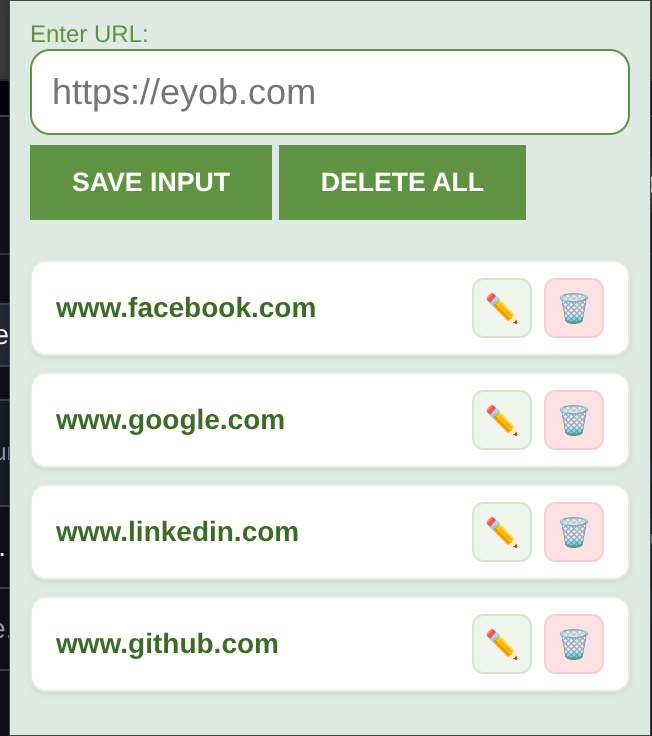
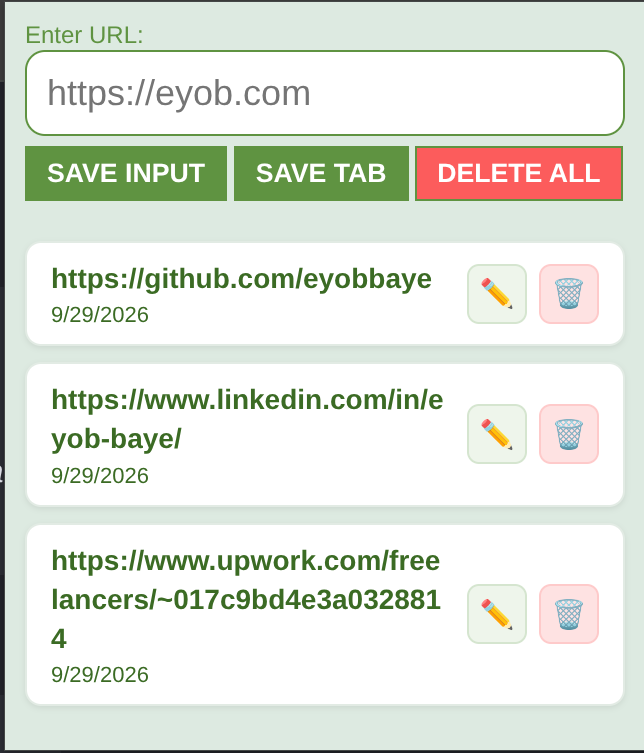
feat: add current tab saving & timeStamp logs.

diff --git a/index.js b/index.js
@@ -7,6 +7,7 @@ import {
   remove,
   forceWebSockets,
   set,
+  serverTimestamp
 } from "firebase/database";
 
 forceWebSockets();
@@ -21,6 +22,7 @@ const referenceInDB = ref(database, "leads");
 
 const inputEl = document.getElementById("input-el");
 const inputBtn = document.getElementById("input-btn");
+const tabBtn = document.getElementById("tab-btn");
 const ulEl = document.getElementById("ul-el");
 const deleteBtn = document.getElementById("delete-btn");
 
@@ -32,7 +34,16 @@ let editingId = null;
 function render(leads) {
   let listItems = "";
   for (let i = 0; i < leads.length; i++) {
-    const [id, url] = leads[i];
+    const [id, item] = leads[i];
+
+    // extract URL from item object
+    const url = typeof item === "object" && item !== null ? item.value : item;
+
+    // format timeStamp
+    const dataStr = typeof item === "object" && item?.timestamp
+      ?
+      new Date(item.timestamp).toLocaleDateString() : "";
+
     if (editingId === id) {
       listItems += `
         <li class="lead-item editing">
@@ -46,7 +57,14 @@ function render(leads) {
     } else {
       listItems += `
         <li class="lead-item">
-          <a href="${url}" target="_blank">${url}</a>
+          <div class="lead-content">
+          <a href="
+          ${url}" target="_blank">${url}</a>
+          ${dataStr ? `<span class="lead-date">
+            ${dataStr}
+            </span>` : ""}
+          </div>
+         
           <div class="btn-group">
             <button class="edit-btn" data-id="${id}" title="Edit">✏</button>
             <button class="delete-item-btn" data-id="${id}" title="Delete">🗑</button>
@@ -69,10 +87,26 @@ onValue(referenceInDB, function (snapshot) {
 function saveInput() {
   const value = inputEl.value.trim();
   if (value) {
-    push(referenceInDB, value);
+    // push(referenceInDB, value);
+    push(referenceInDB, {
+      value: value,
+      timestamp: serverTimestamp(),
+    } )
     inputEl.value = "";
   }
 }
+tabBtn.addEventListener("click", function () {
+  chrome.tabs.query({ active: true, currentWindow: true }, function (tabs) {
+    const activeTab = tabs[0];
+    const url = activeTab.url;
+    if (url) {
+      push(referenceInDB, {
+        value: url,
+        timestamp: serverTimestamp(),
+      });
+    }
+  });
+});
 deleteBtn.addEventListener("dblclick", function () {
   //remove from the UI
   ulEl.innerHTML = "";

diff --git a/index.css b/index.css
@@ -24,10 +24,17 @@ button{
   background-color: #5f9341;
   color:#fff;
   border: none;
-  padding: 10px 20px;
+  padding: 5px 10px;
   border: 1px solid #5f9341;
   margin-top: 5px;
   font-weight: bold;
+}
+
+.delete{
+  background-color: #fc5c5c;
+}
+.delete:hover{
+  background-color: #f44336;
 }
 #delete-el{
   background-color: white;
@@ -177,4 +184,18 @@ li.lead-item.editing {
 
 .btn-group .cancel-btn:hover {
   background-color: #d1d5db;
+}
+
+/* lead content */
+.lead-content {
+  display: flex;
+  flex-direction: column;
+  flex: 1;
+  overflow: hidden;
+}
+.lead-date{
+  font-size: 11px;
+  color: #3b6b24;
+  margin-top: 2px;
+
 }

diff --git a/index.html b/index.html
@@ -16,7 +16,8 @@
   <label>Enter URL:</label>
   <input type="text" placeholder="https://eyob.com" id="input-el">
   <button id="input-btn" class="btn">SAVE INPUT</button>
-  <button id="delete-btn" class="btn">DELETE ALL</button>
+  <button id="tab-btn" class="btn">SAVE TAB</button>
+  <button id="delete-btn" class="btn delete">DELETE ALL</button>
   <ul id="ul-el">
   </ul>
   <script type="module" src="index.js"></script>

diff --git a/README.md b/README.md
@@ -21,7 +21,7 @@ Lead Tracker uses the Chrome Tabs API to get the URL of the active tab. Saving a
 
 You can also manually enter a URL and save it.
 Screenshot
-![Screenshot](/public/Screenshot.png)
+![Screenshot](/public//Screenshot.png)
 
 Instructions
 Go to the page you wish to save.
